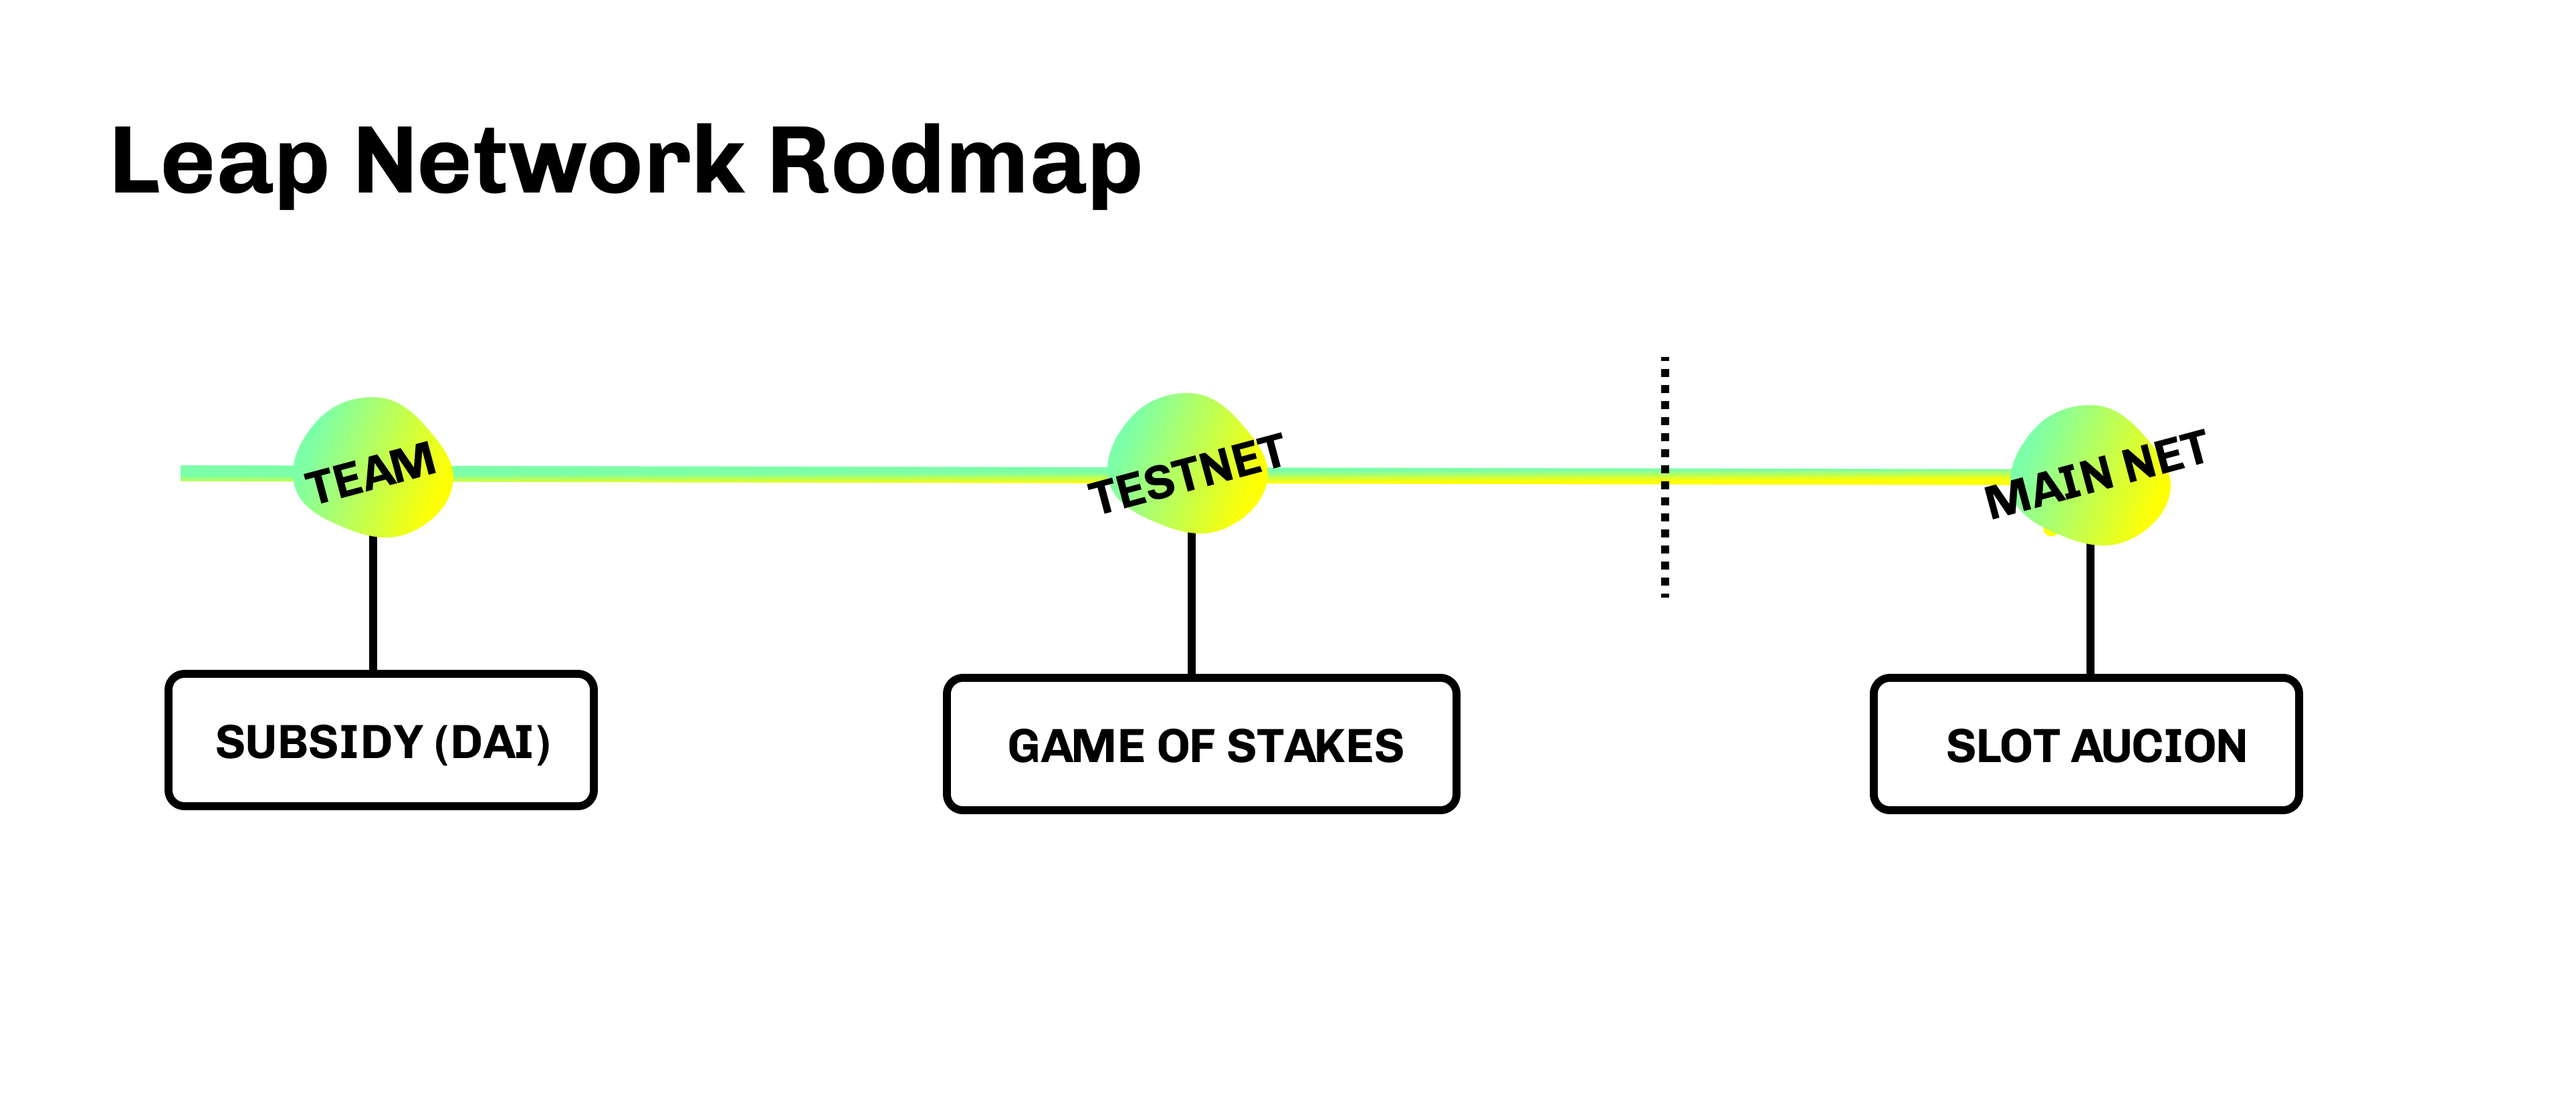
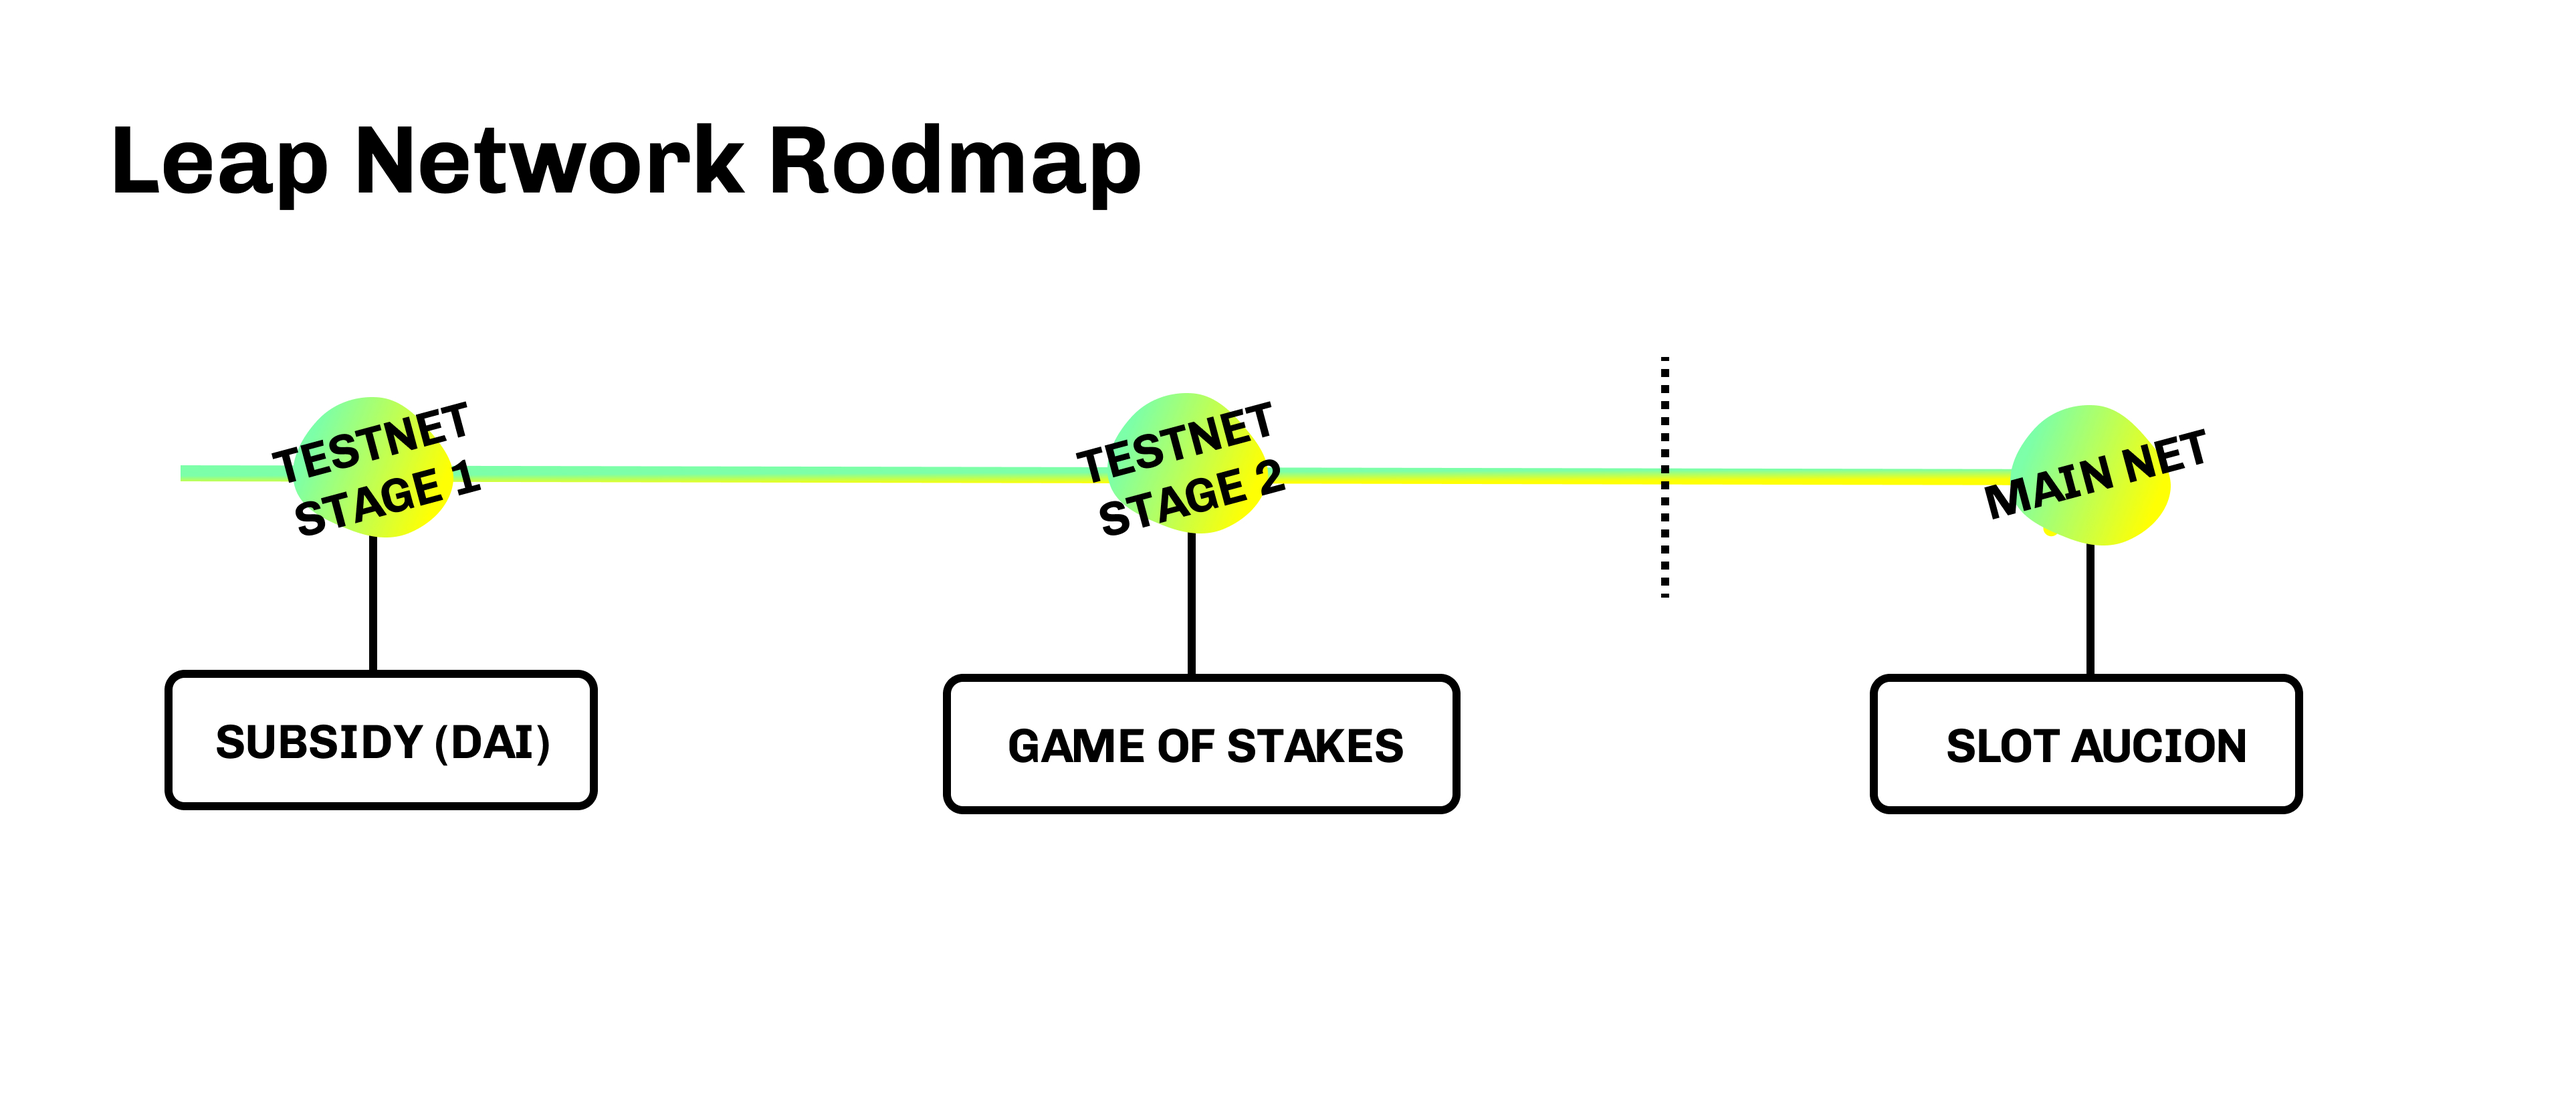
new image paths & change of the roadmap img

Changed region(s): [[0.405, 0.3723, 0.4984, 0.4964], [0.0935, 0.3723, 0.1869, 0.4964]]

diff --git a/docs/validators/general.md b/docs/validators/general.md
@@ -9,7 +9,7 @@ LeapDAO is a decentralized autonomous organisation behind the Leap Network creat
 
 The Leap Network creates scalability through a plasma layer two solution with proof of stake. Scalability is achieved through the hashing of 4000 Transactions in one Block with a Block Time of 2 - 4 seconds on the Plasma Chain. Then the maximal amount of 32 Blocks get stamped on the Ethereum main - net every 1 - 2 min. (the Blocktime of Ethereum). This makes it possible to have an awesome scalability with 1000 transactions per second and less than 4 sec. per Transactions. 
 
-![alt text](https://raw.githubusercontent.com/leapdao/leapdao-docs/3ff8735ecc4c971d84d3ed5a6933231d93578196/img/val-img1.jpg "Logo Title Text 1")
+![alt text](/img/val-img1 "Description of the Plasma Network")
 
 Every Validator earns one Period reward during one Epoch. The length of the one Epoch depends on the amount of Validator slots. The Order is chosen randomly after each Epoch
 
@@ -54,5 +54,5 @@ The Leap Network is currently a single operator plasma and has the goal to becom
 
 3. **Validator OfferinG** - Offering Validators Leap tokens to participate in an continuously ongoing staking auction for a Validator slot. 
 
-![alt text](https://raw.githubusercontent.com/leapdao/leapdao-docs/3ff8735ecc4c971d84d3ed5a6933231d93578196/img/val-img3.jpg "Logo Title Text 1")
+![alt text](/img/val-img3 "Roadmap")
 

diff --git a/docs/validators/economics.md b/docs/validators/economics.md
@@ -21,7 +21,7 @@ or this reason Leap DAO created a token economy with an Infinite token supply, r
 
 When inflating the token supply to pay validators, value is redistributed from all participants to the validators. How can this redistribution be minimized while still paying enough to keep the chain secure?
 
-![alt text](https://raw.githubusercontent.com/leapdao/leapdao-docs/3ff8735ecc4c971d84d3ed5a6933231d93578196/img/val-img2.jpg "Logo Title Text 1")
+![alt text](/img/val-img2 "Token economy")
 
 Assuming a constant token price, validators are incentivised to stake more tokens when inflation is high. Once the total amount of tokens staked exceeds 50% of supply, the block-rewards start decreasing. Block-rewards continue decreasing until first validators are finding the validation not worth their while and unstake from the chain. Somewhere in the right half of the graph a market equilibrium is found where only the efficient validators can make a profit.
 

diff --git a/docs/validators/instructions.md b/docs/validators/instructions.md
@@ -37,7 +37,7 @@ Due to proof of Stake the hardware to running a node can be pretty simple. In th
 
 The Operational costs depend on your hardware costs and the transaction costs on the Ethereum mainnet which depending on the ETH price. We created a table with an monthly transaction cost overview. As you can see the monthly costs are anywhere between XXX and XXX depending on the amount of traffic on the chain and the ethereum price. 
 
-![alt text](https://raw.githubusercontent.com/leapdao/leapdao-docs/3ff8735ecc4c971d84d3ed5a6933231d93578196/img/val-img4.jpg "Logo Title Text 1")
+![alt text](/img/val-img4 "Logo Title Text 1")
 
 ## What are the Operational risks ? 
 
